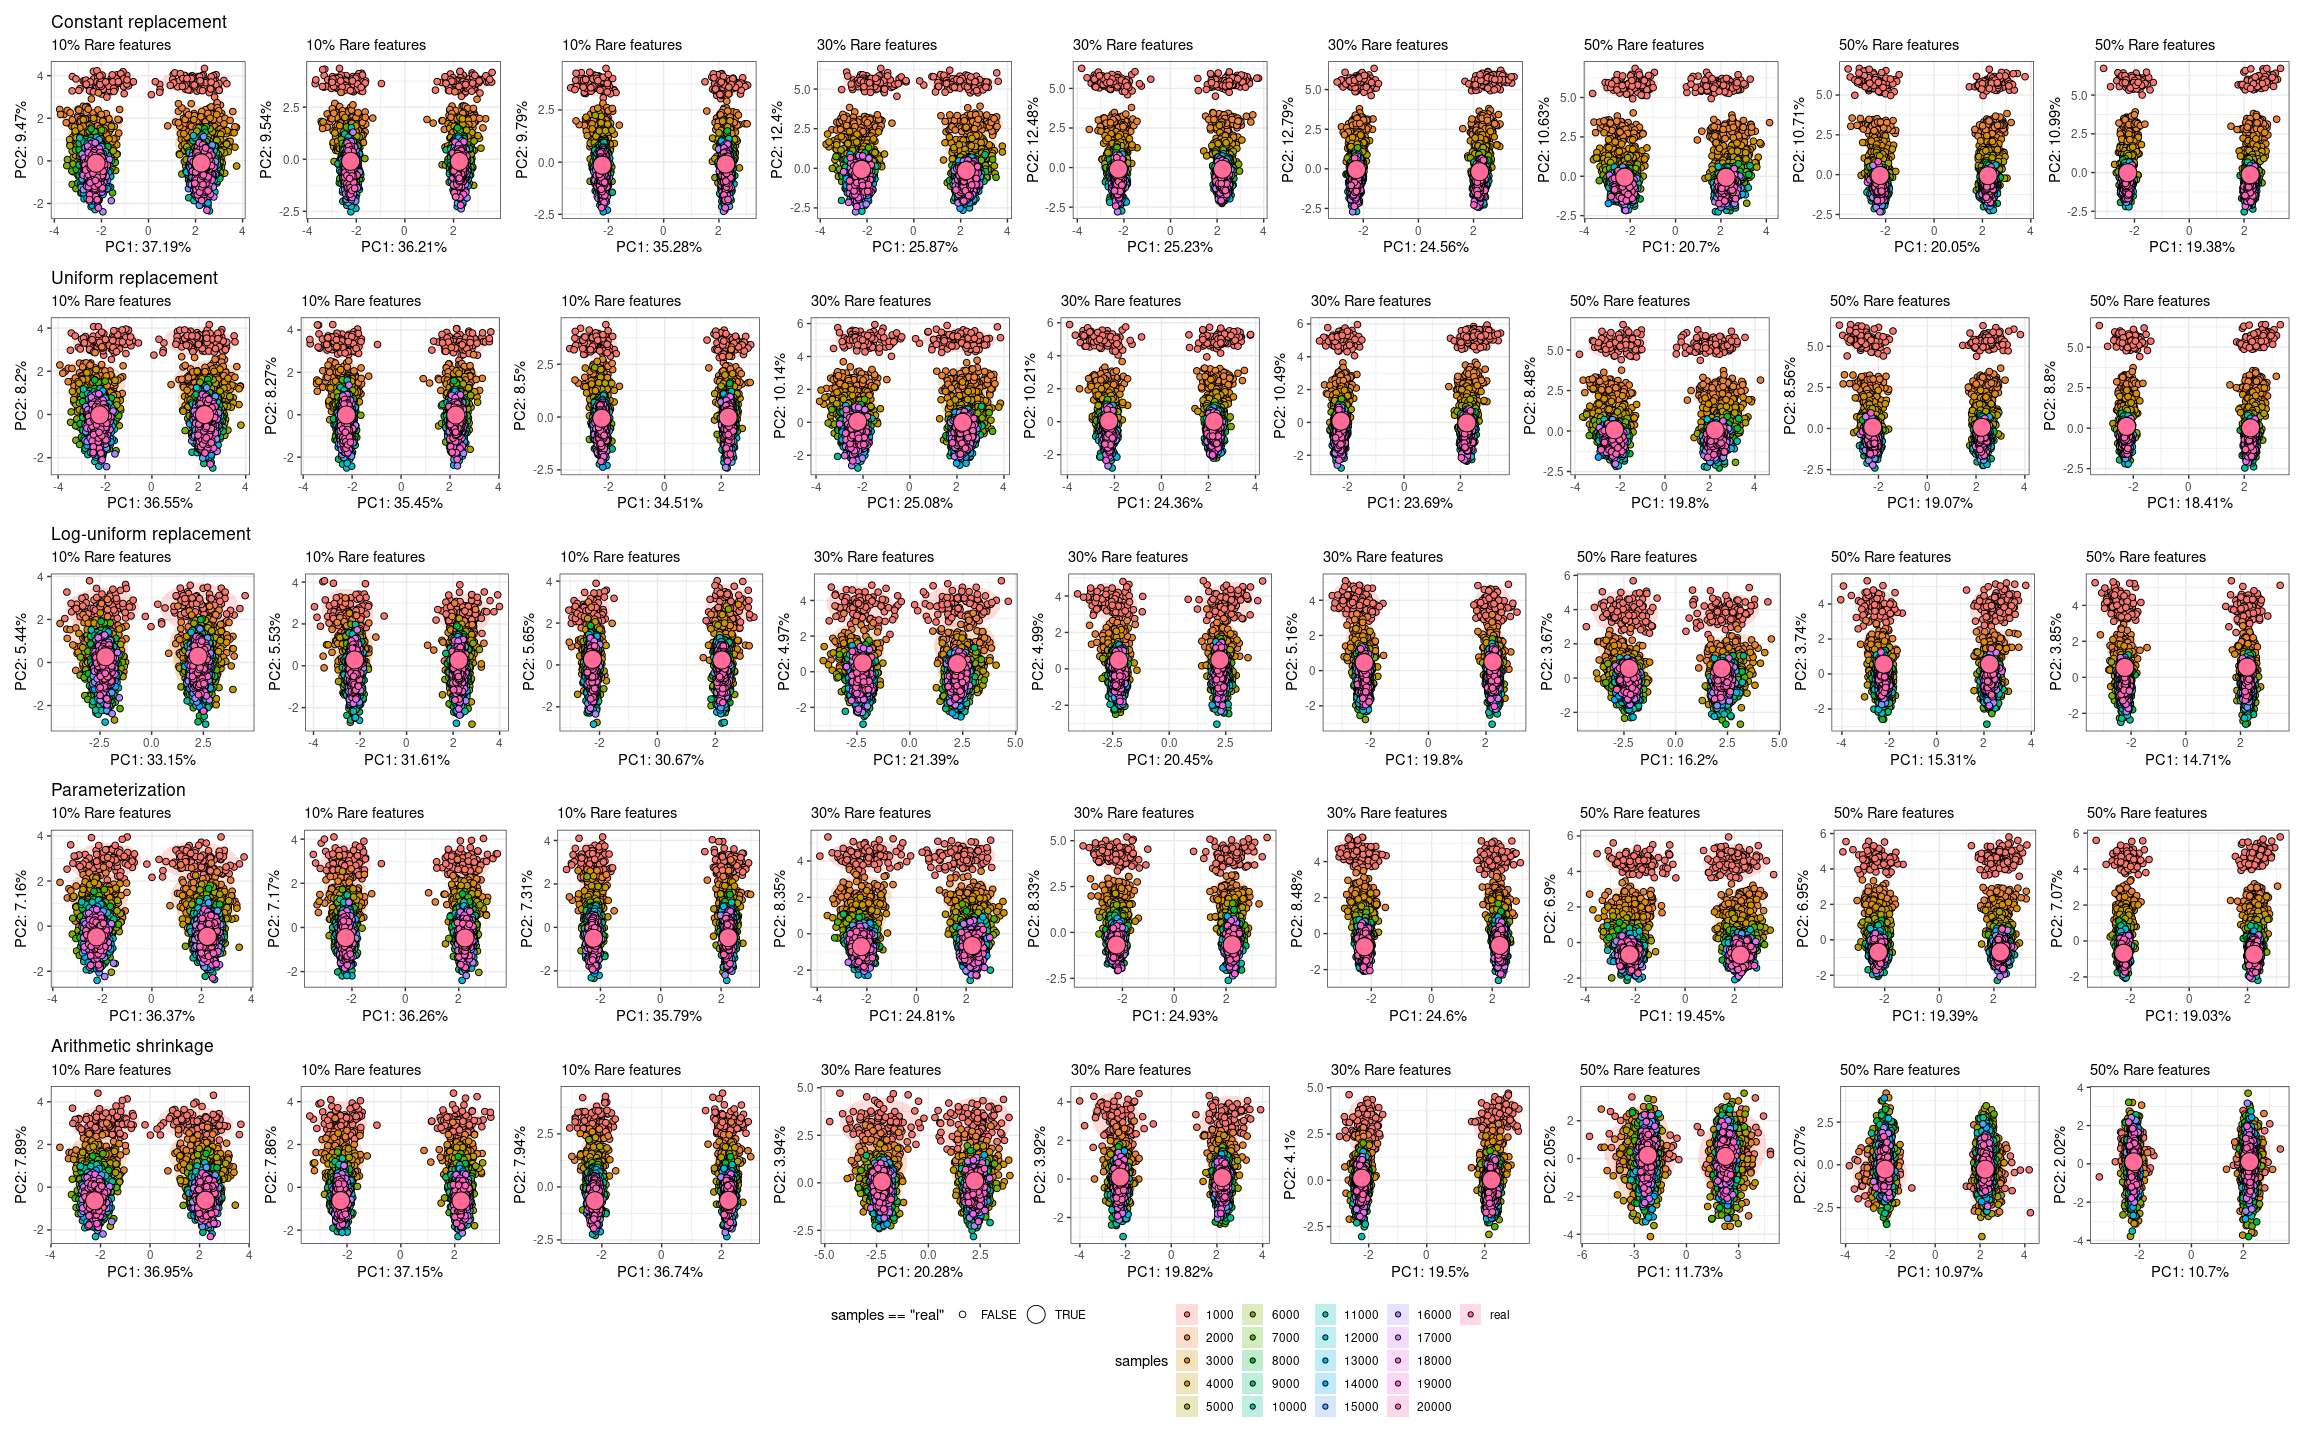
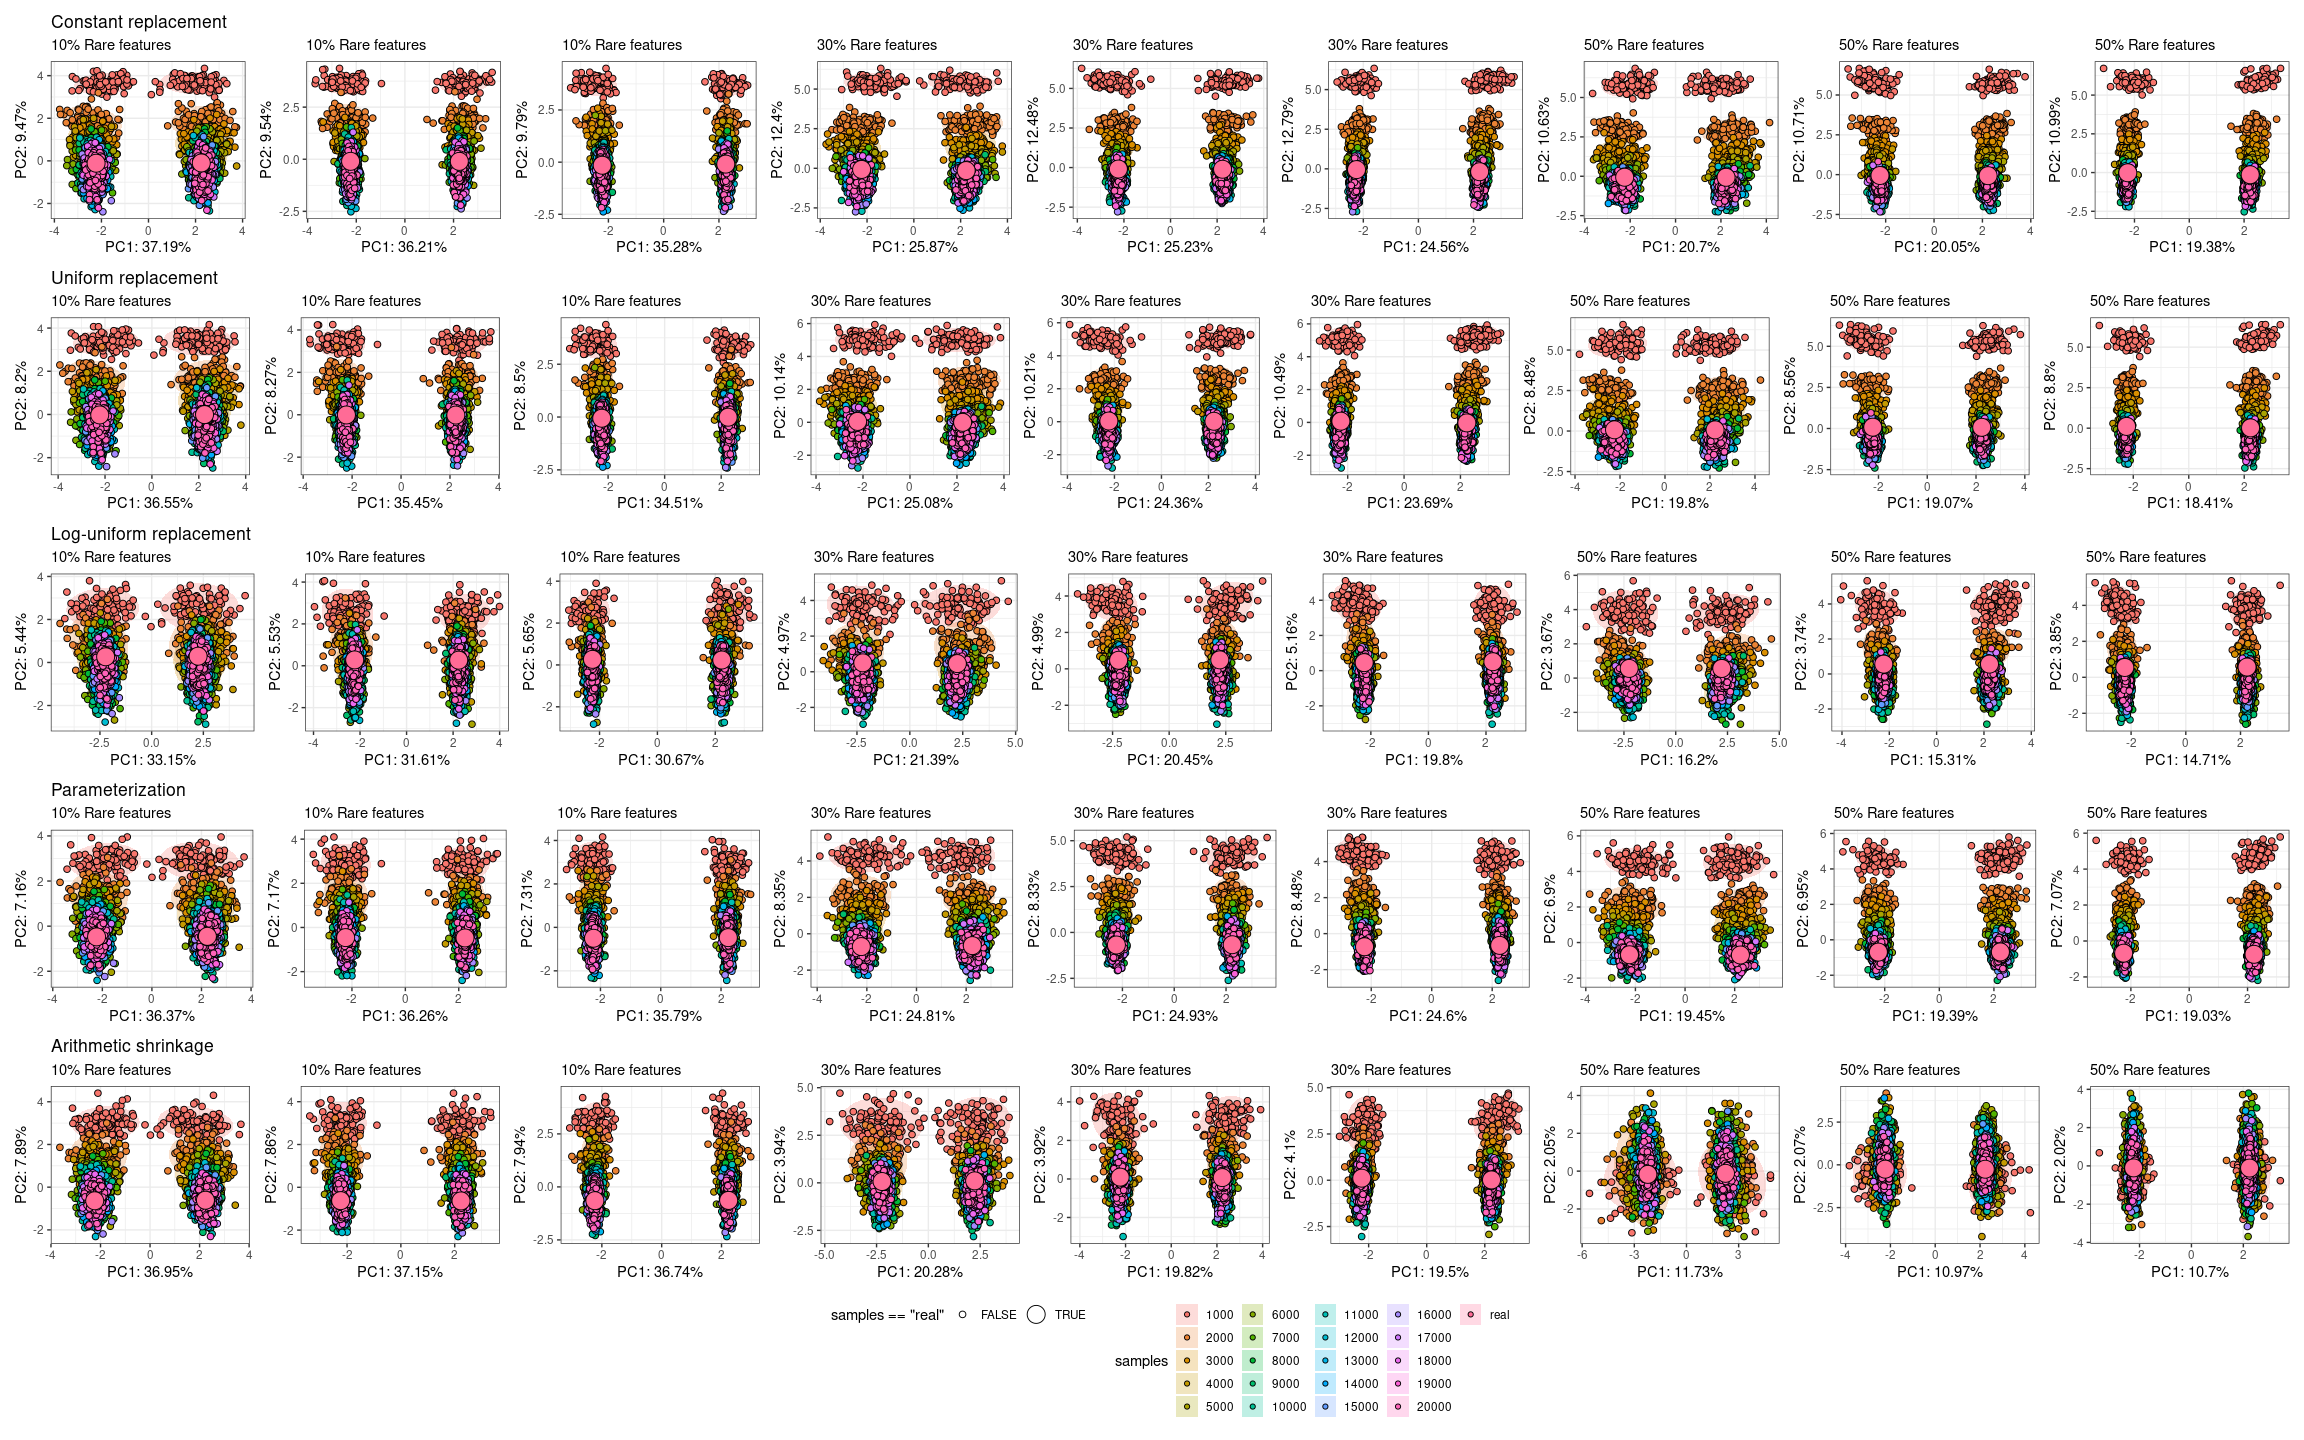
fixed PCA orientation

Changed region(s): [[0.6875, 0.75, 0.7812, 0.875], [0.9688, 0.75, 1.0, 0.875], [0.9062, 0.75, 0.9375, 0.875]]

diff --git a/docs/volatility.md b/docs/volatility.md
@@ -2108,7 +2108,7 @@ pc4 <- round(shrunk_b3a.pca$sdev[4]^2/sum(shrunk_b3a.pca$sdev^2),4) * 100
 
 #Extract the scores for every sample for the first four components for plotting. 
 pca  = data.frame(PC1 = shrunk_b3a.pca$x[,1], 
-                  PC2 = shrunk_b3a.pca$x[,2], 
+                  PC2 = shrunk_b3a.pca$x[,2] * -1, 
                   PC3 = shrunk_b3a.pca$x[,3], 
                   PC4 = shrunk_b3a.pca$x[,4])
 
@@ -2186,7 +2186,7 @@ pc4 <- round(shrunk_b3c.pca$sdev[4]^2/sum(shrunk_b3c.pca$sdev^2),4) * 100
 
 #Extract the scores for every sample for the first four components for plotting. 
 pca  = data.frame(PC1 = shrunk_b3c.pca$x[,1], 
-                  PC2 = shrunk_b3c.pca$x[,2] * -1, 
+                  PC2 = shrunk_b3c.pca$x[,2], 
                   PC3 = shrunk_b3c.pca$x[,3], 
                   PC4 = shrunk_b3c.pca$x[,4])
 
